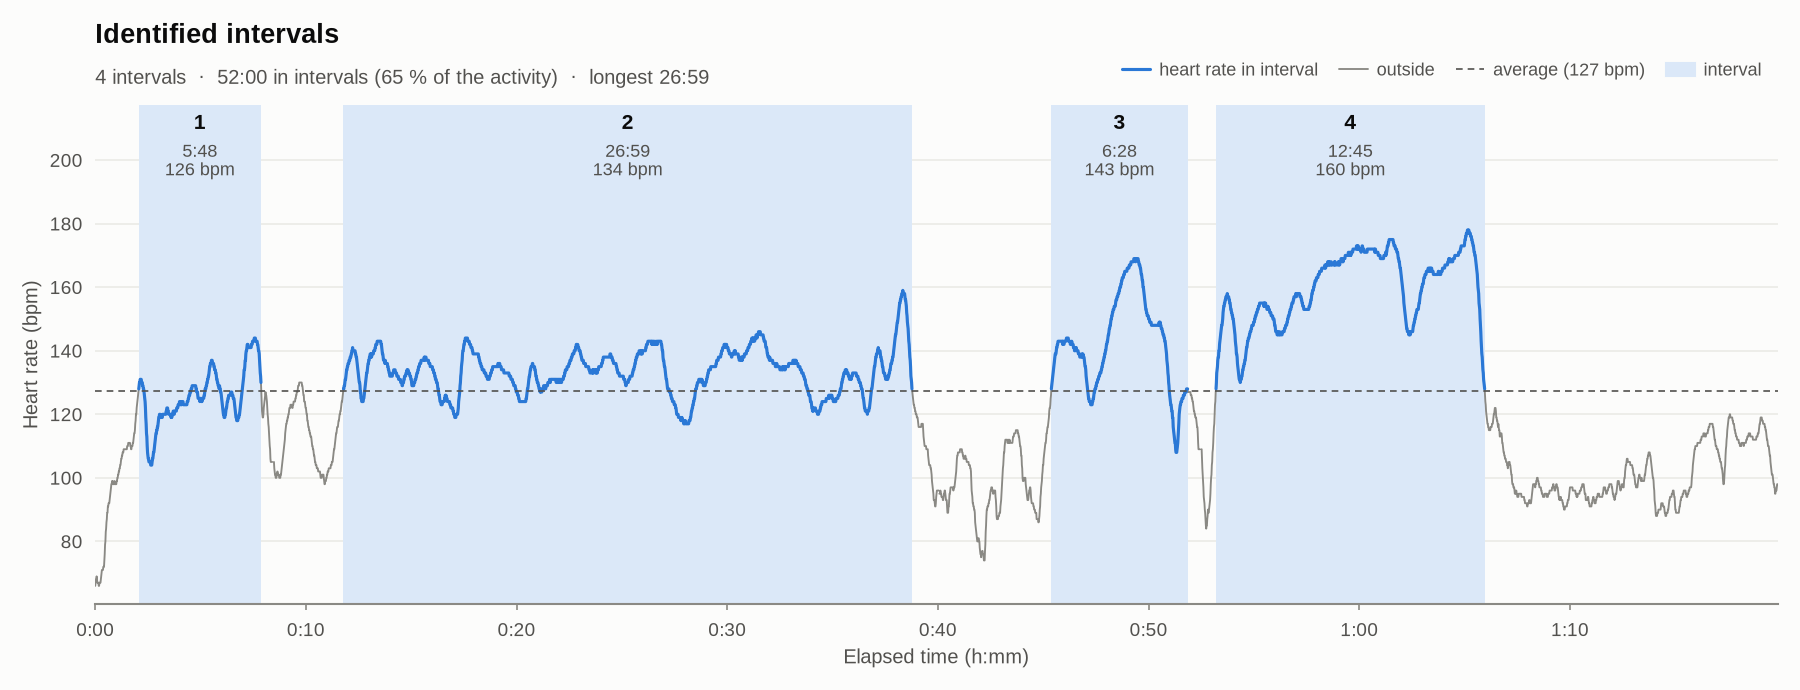
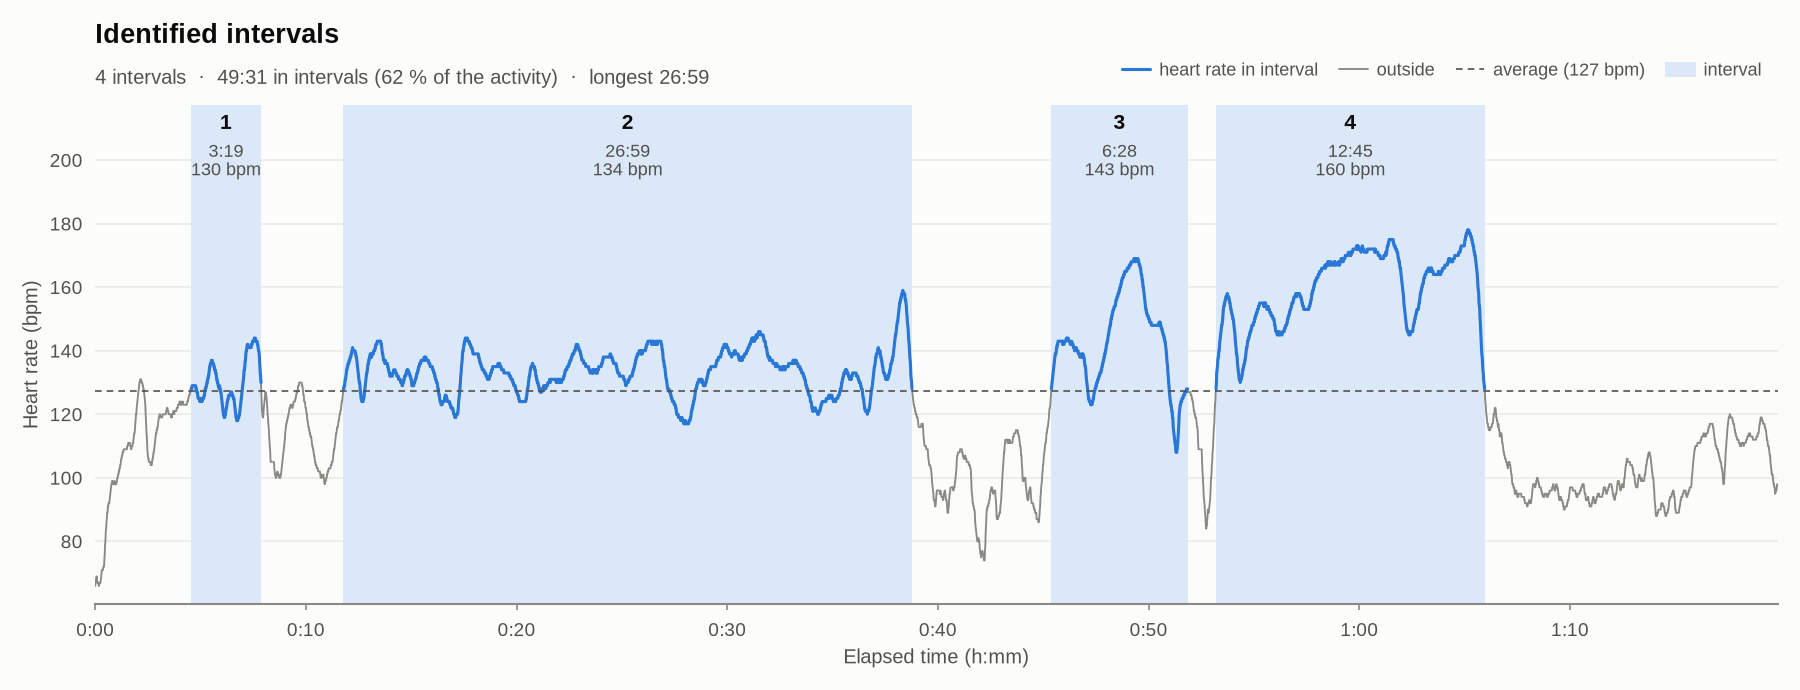
Heart rate intervals: tolerate sensor dropouts, limit merge gap
Two rules of IntervalIdentificationByHeartRate are changed.

1. Missing heart rate no longer rejects the whole activity.
   identify_intervals raised ValueError if heart rate was missing for
   more than 10 s in a row, so 15.tcx (4.8 h) was rejected because of a
   single 15 s dropout. Points without heart rate never belong to an
   interval anyway; now a gap without heart rate of at most
   max_missing_gap seconds (default 10) is bridged and a longer one
   splits the interval. An activity without any heart rate has no
   intervals, as before.

2. Intervals are merged only across short gaps.
   Two intervals were merged whenever the average heart rate between
   them was less than 10 bpm below the activity average, regardless of
   how long the gap was. For steady activities almost every gap
   qualified, e.g. walking_activity_1.tcx became one interval covering
   98 % of the activity. Now the gap must also be at most
   max_merge_gap seconds (default 120).

Both limits are new optional constructor arguments. Effect on the
sample activities (intervals, share of the activity):

  2.tcx        3, 90 %  ->  3, 83 %
  11.tcx       4, 65 %  ->  4, 62 %
  15.tcx       rejected ->  20, 46 %
  walking      1, 98 %  ->  4, 55 %
  xc skiing    1, 81 %  ->  1, 81 %

Tests: regression values for 2.tcx updated; new synthetic tests for a
long dropout (splits), max_missing_gap, no heart rate, a long recovery
(splits; merges with a larger max_merge_gap) and a short recovery
[…]

Changed region(s): [[0.0622, 0.1522, 0.1556, 0.8826], [0.1244, 0.0913, 0.1556, 0.1217]]

diff --git a/sport_activities_features/interval_identification.py b/sport_activities_features/interval_identification.py
@@ -3,10 +3,14 @@ import numbers
 
 # Two power intervals closer than this (in seconds) are merged.
 POWER_MERGE_GAP = 30
-# Two heart rate intervals are merged if the average heart rate between
-# them is less than this many beats per minute below the overall average.
+# Two heart rate intervals are merged if the gap between them is at most
+# HEART_RATE_MERGE_GAP seconds and the average heart rate in the gap is
+# less than HEART_RATE_MERGE_DIFFERENCE beats per minute below the overall
+# average.
+HEART_RATE_MERGE_GAP = 120
 HEART_RATE_MERGE_DIFFERENCE = 10
-# Heart rate may be missing for at most this many seconds in a row.
+# A gap without heart rate data of at most this many seconds (a short
+# sensor dropout) does not split an interval; a longer one does.
 HEART_RATE_MAX_MISSING = 10
 
 
@@ -286,6 +290,12 @@ class IntervalIdentificationByHeartRate(object):
             list of heart rates
         minimum_time (int):
             minimum time of an interval given in seconds
+        max_merge_gap (float):
+            two intervals with a lower heart rate between them are merged
+            only if the gap is at most this many seconds
+        max_missing_gap (float):
+            a gap without heart rate of at most this many seconds does not
+            split an interval
     """
 
     def __init__(
@@ -295,6 +305,8 @@ class IntervalIdentificationByHeartRate(object):
         altitudes: list,
         heart_rates: list,
         minimum_time: int = 30,
+        max_merge_gap: float = HEART_RATE_MERGE_GAP,
+        max_missing_gap: float = HEART_RATE_MAX_MISSING,
     ) -> None:
         """
         Initialisation method for IntervalIdentificationByHeartRate class.\n
@@ -309,25 +321,37 @@ class IntervalIdentificationByHeartRate(object):
             list of heart rates
         minimum_time (int):
             minimum time of an interval given in seconds
+        max_merge_gap (float):
+            two intervals with a lower heart rate between them are merged
+            only if the gap is at most this many seconds
+        max_missing_gap (float):
+            a gap without heart rate of at most this many seconds does not
+            split an interval
         """
         self.distances = distances
         self.timestamps = timestamps
         self.altitudes = altitudes
         self.heart_rates = heart_rates
         self.minimum_time = minimum_time
+        self.max_merge_gap = max_merge_gap
+        self.max_missing_gap = max_missing_gap
 
     def identify_intervals(self) -> None:
         """
         Method for identifying intervals from given data.\n
         An interval is a run of points whose heart rate is above the
-        average heart rate of the activity. Missing heart rate values
-        (None) are ignored, but a heart rate may not be missing for more
-        than HEART_RATE_MAX_MISSING seconds in a row.\n
-        Raises:
-            ValueError: if heart rate is missing for too long.
+        average heart rate of the activity. Two neighbouring intervals are
+        merged if
+        - the gap between them has no heart rate data and lasts at most
+          max_missing_gap seconds (a short sensor dropout), or
+        - the gap lasts at most max_merge_gap seconds and its average
+          heart rate is less than HEART_RATE_MERGE_DIFFERENCE below the
+          overall average.\n
+        Points without heart rate never belong to an interval, so a longer
+        dropout splits an interval. Intervals shorter than minimum_time
+        are removed. Without any heart rate data there are no intervals.
         """
         self.intervals = []
-        self.__check_missing_heart_rates()
 
         recorded = [hr for hr in self.heart_rates if _is_number(hr)]
         if not recorded:
@@ -342,50 +366,31 @@ class IntervalIdentificationByHeartRate(object):
             for hr in self.heart_rates
         ])
 
-        # Combining intervals according to the heart rate between them:
-        # if the average heart rate between two intervals is less than
-        # HEART_RATE_MERGE_DIFFERENCE below the overall average (or the
-        # heart rate between them is missing), they are combined
-        def similar_between(previous: list, current: list) -> bool:
+        def should_merge(previous: list, current: list) -> bool:
+            gap = (
+                self.timestamps[current[0]] - self.timestamps[previous[-1]]
+            ).total_seconds()
             between = [
                 hr for hr in self.heart_rates[previous[-1] + 1: current[0]]
                 if _is_number(hr)
             ]
             if not between:
-                return True
+                return gap <= self.max_missing_gap
+            if gap > self.max_merge_gap:
+                return False
             average_between = sum(between) / len(between)
             return (
                 average_heartrate - average_between
                 < HEART_RATE_MERGE_DIFFERENCE
             )
 
-        intervals = _merge(intervals, similar_between)
+        intervals = _merge(intervals, should_merge)
 
         # Removing intervals that are too short
         # (shorter than minimum_time, given as an argument)
         self.intervals = _remove_short(
             intervals, self.timestamps, self.minimum_time,
         )
-
-    def __check_missing_heart_rates(self) -> None:
-        """Raise ValueError if heart rate is missing for more than
-        HEART_RATE_MAX_MISSING seconds in a row."""
-        last_recorded = None
-        for index, hr in enumerate(self.heart_rates):
-            if not _is_number(hr):
-                continue
-            if last_recorded is not None and index - last_recorded > 1:
-                missing = (
-                    self.timestamps[index] - self.timestamps[last_recorded]
-                ).total_seconds()
-                if missing > HEART_RATE_MAX_MISSING:
-                    msg = (
-                        'Input heart rates are not complete '
-                        f'({missing:.0f} s without heart rate), '
-                        'thus intervals cannot be identified.'
-                    )
-                    raise ValueError(msg)
-            last_recorded = index
 
     def calculate_interval_statistics(self) -> dict:
         """

diff --git a/tests/test_interval_identification.py b/tests/test_interval_identification.py
@@ -66,7 +66,7 @@ class TestIntervalIdentificationActivity(TestCase):
         )
         self.assertAlmostEqual(
             self.statistics_heartrate['avg_duration_interval'],
-            1169.0,
+            1066.67,
             places=2
         )
 
@@ -102,14 +102,14 @@ class TestIntervalIdentificationActivity(TestCase):
         )
         self.assertAlmostEqual(
             self.statistics_heartrate['avg_distance_interval'],
-            7669.2700,
+            6968.8103,
             places=4
         )
 
     def test_min_heartrate_correct(self):
         self.assertAlmostEqual(
             self.statistics_heartrate['min_heartrate_interval'],
-            167.4933,
+            169.4700,
             places=4
         )
 
@@ -123,7 +123,7 @@ class TestIntervalIdentificationActivity(TestCase):
     def test_avg_heartrate_correct(self):
         self.assertAlmostEqual(
             self.statistics_heartrate['avg_heartrate_interval'],
-            169.47,
+            170.15,
             places=2
         )
 
@@ -141,6 +141,15 @@ def heart_rate_intervals(heart_rates, minimum_time=30):
     intervals = IntervalIdentificationByHeartRate(
         list(range(n)), seconds(n), [0] * n, heart_rates,
         minimum_time=minimum_time,
+    )
+    intervals.identify_intervals()
+    return intervals
+
+
+def heart_rate_intervals_with(heart_rates, **kwargs):
+    n = len(heart_rates)
+    intervals = IntervalIdentificationByHeartRate(
+        list(range(n)), seconds(n), [0] * n, heart_rates, **kwargs,
     )
     intervals.identify_intervals()
     return intervals
@@ -201,9 +210,47 @@ class TestIntervalIdentificationByHeartRate(TestCase):
         intervals = heart_rate_intervals([100] * 100 + [180] * 99 + [None])
         self.assertEqual(spans(intervals), [(100, 198)])
 
-    def test_long_missing_heart_rate_raises(self):
-        with self.assertRaises(ValueError):
-            heart_rate_intervals([100] * 50 + [None] * 20 + [180] * 50)
+    def test_long_missing_heart_rate_splits_interval(self):
+        # 20 s without heart rate inside an effort: two intervals, no error
+        intervals = heart_rate_intervals(
+            [100] * 100 + [180] * 40 + [None] * 20 + [180] * 40 + [100] * 50,
+        )
+        self.assertEqual(spans(intervals), [(100, 139), (160, 199)])
+
+    def test_max_missing_gap(self):
+        heart_rates = (
+            [100] * 100 + [180] * 40 + [None] * 20 + [180] * 40 + [100] * 50
+        )
+        intervals = heart_rate_intervals_with(
+            heart_rates, max_missing_gap=30,
+        )
+        self.assertEqual(spans(intervals), [(100, 199)])
+
+    def test_no_heart_rate(self):
+        intervals = heart_rate_intervals([None] * 100)
+        self.assertEqual(spans(intervals), [])
+
+    def test_long_recovery_splits_intervals(self):
+        # 3 min at 156 bpm between two efforts (average 161 bpm): within
+        # 10 bpm of the average, but longer than max_merge_gap (120 s).
+        heart_rates = [100] * 60 + [180] * 120 + [156] * 180 + [180] * 120
+        self.assertEqual(sum(heart_rates) / len(heart_rates), 161)
+        self.assertEqual(
+            spans(heart_rate_intervals(heart_rates)),
+            [(60, 179), (360, 479)],
+        )
+        self.assertEqual(
+            spans(heart_rate_intervals_with(heart_rates, max_merge_gap=200)),
+            [(60, 479)],
+        )
+
+    def test_short_recovery_merges_intervals(self):
+        # 1 min at 158 bpm between two efforts (average 163 bpm)
+        heart_rates = [100] * 60 + [180] * 120 + [158] * 60 + [180] * 120
+        self.assertEqual(sum(heart_rates) / len(heart_rates), 163)
+        self.assertEqual(
+            spans(heart_rate_intervals(heart_rates)), [(60, 359)],
+        )
 
     def test_statistics(self):
         intervals = heart_rate_intervals(

diff --git a/tests/test_interval_identification_sample_files.py b/tests/test_interval_identification_sample_files.py
@@ -61,12 +61,7 @@ def by_heart_rate(activity):
         activity['distances'], activity['timestamps'],
         activity['altitudes'], activity['heartrates'],
     )
-    try:
-        intervals.identify_intervals()
-    except ValueError as error:
-        # The only accepted failure: heart rate missing for too long.
-        assert 'not complete' in str(error)
-        pytest.skip(str(error))
+    intervals.identify_intervals()
     return intervals
 
 

diff --git a/tests/test_plot_data.py b/tests/test_plot_data.py
@@ -164,7 +164,7 @@ class TestPlotIntervalsInMap(TestCase):
         self.assertEqual([t for t in labels if t.isdigit()], ['1', '2', '3'])
         self.assertIn('36:31\n169 bpm', labels)
         self.assertIn(
-            '3 intervals  ·  58:27 in intervals (90 % of the activity)'
+            '3 intervals  ·  53:20 in intervals (83 % of the activity)'
             '  ·  longest 36:31',
             labels,
         )
